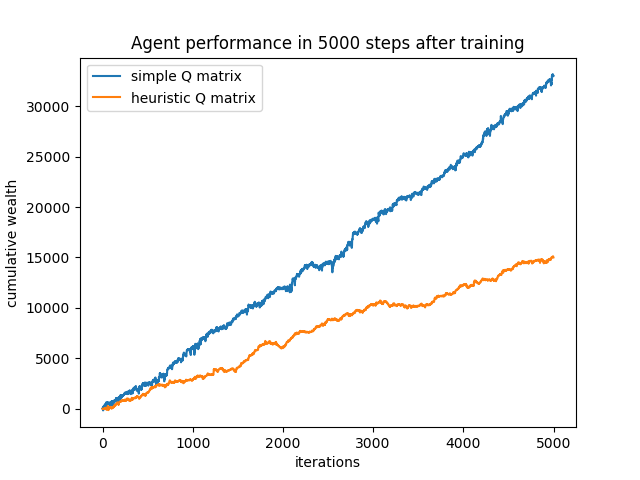
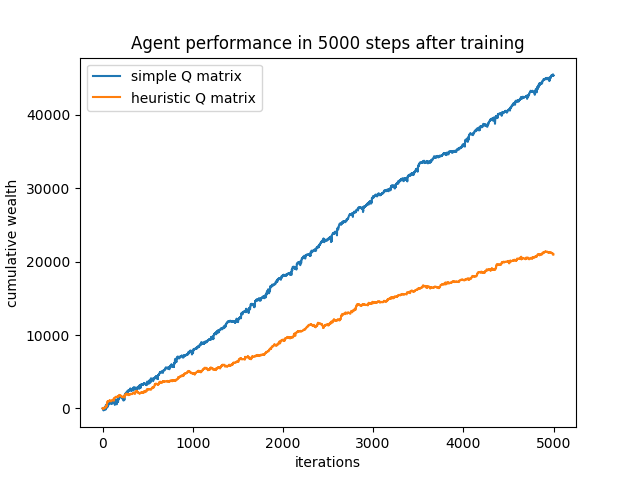
save

diff --git a/source/qlearner.py b/source/qlearner.py
@@ -219,7 +219,7 @@ class QMatrixHeuristic(QMatrix):
     def __init__(self, actions, dist_func, epsilon=0.1, learning_rate=0.1, discount_factor=0.999):
         super().__init__(actions, epsilon, learning_rate, discount_factor)        
         self._dist_func = dist_func
-        self.sample_size = 100
+        self.sample_size = 1000
     
     def _get_q(self, state, action):
         if (state, action) in self._Q:
